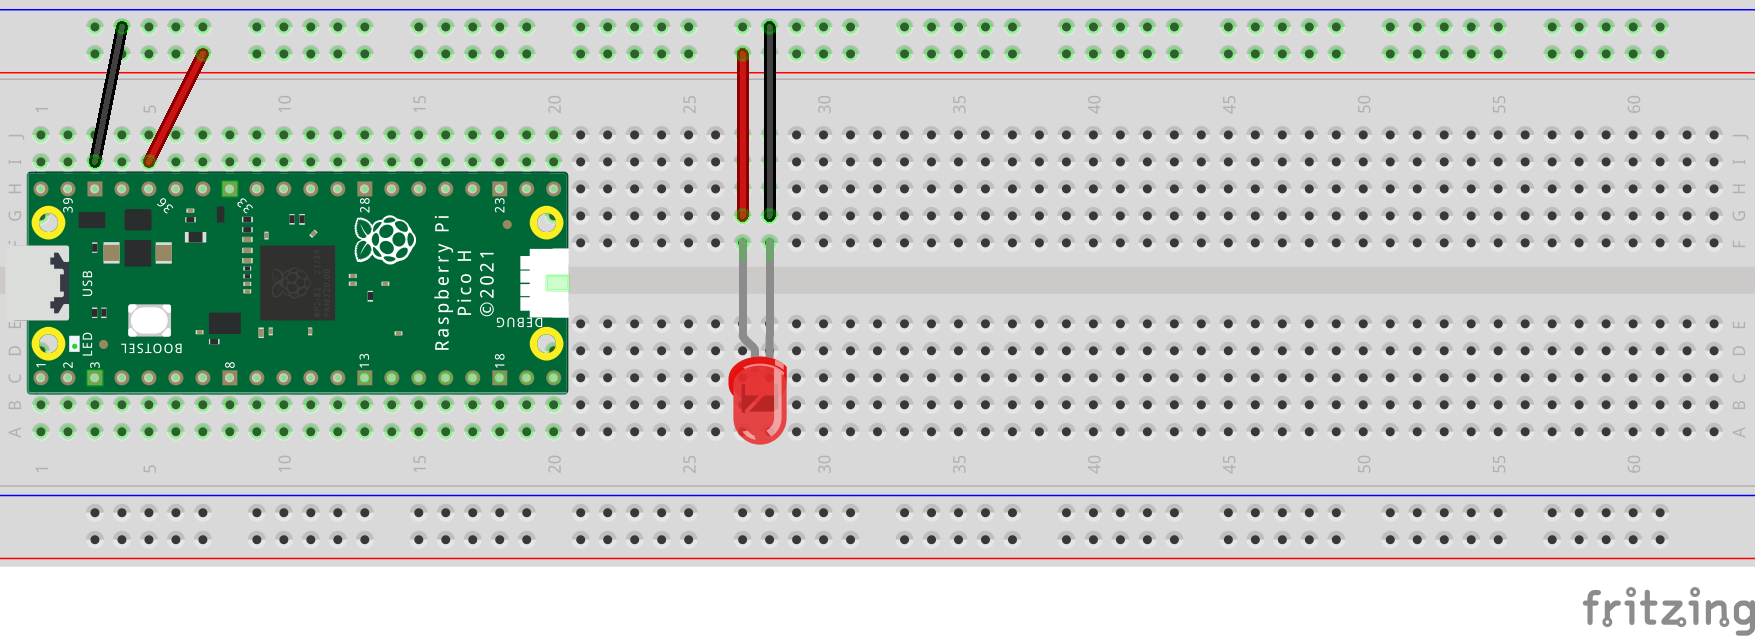
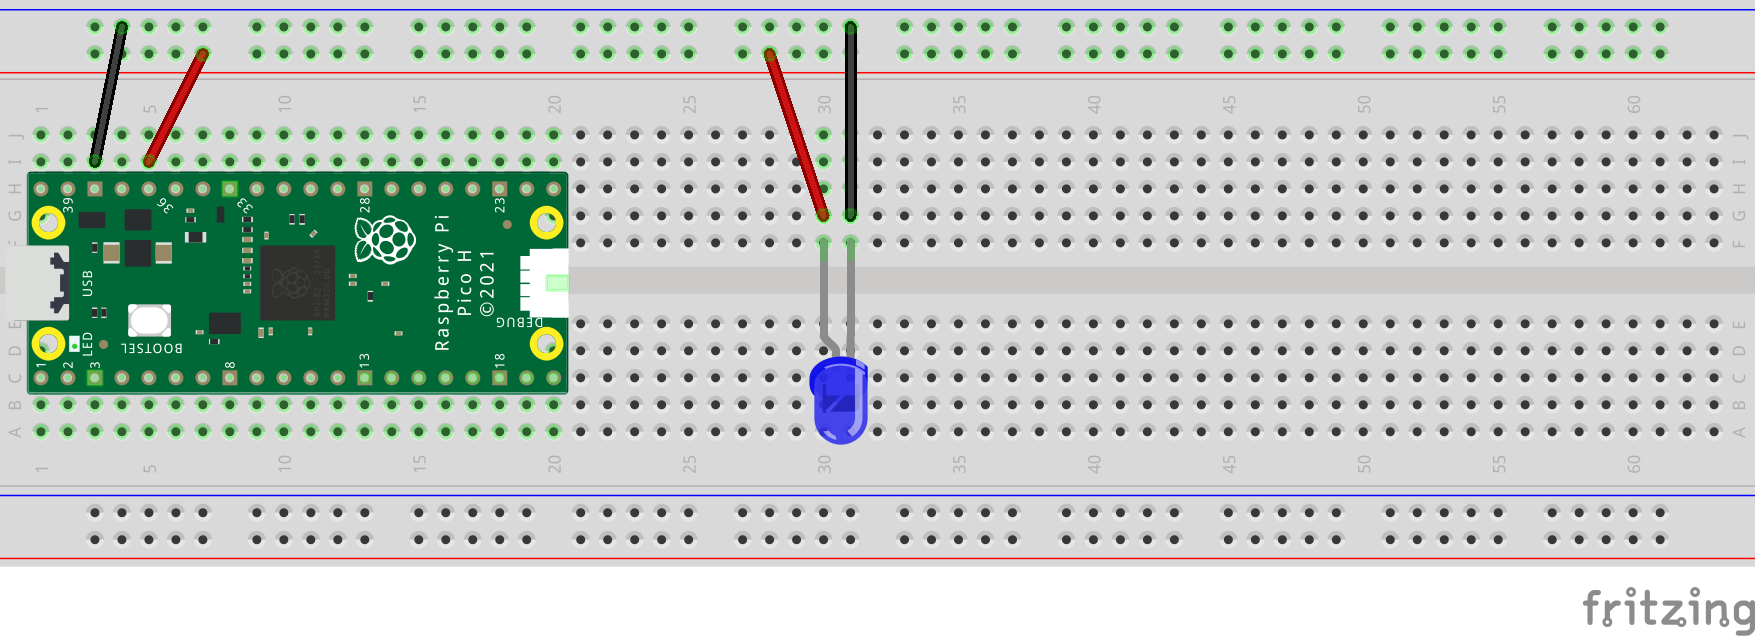
update pics and major update to lab1 description

Changed region(s): [[0.4, 0.0299, 0.4923, 0.717]]

diff --git a/labs/first_circuit.md b/labs/first_circuit.md
@@ -13,7 +13,6 @@ An important part of a working circuit is to make sure the circuit is complete o
 
 The first circuit is to simply power an LED.  A LED is a Light Emitting Diode.  A Diode only allows electricity to flow in one direction.  So, there is a positive and negative side to the LED.  Typically the longer leg of the LED is the positive side.
 
-NOTE: Technically the color of wires don't matter (internally they are the same), but the color does make it easier to know the purpose.  Usually, red wires indicate positive(+) and black wires indicate ground/negative(-).  On the breadboard, the blue line represents the ground/negative power strip and the red/pink line indicates the positive side.
 
 So, we will simply hook our power source to our bread board and then connect the power to the LED in the appropriate way.  See the Diagram below.
 
@@ -23,6 +22,34 @@ We wil be connecting the 3.3Volts out pin from the Pico to the + power rail of t
 
 ##### LED Specification Table
 ![LED Specs](/images/LED_SPECS.PNG)
+
+
+## What to do:
+
+We will now connect the power rails of the breadboard to the Raspberry Pi Pico.  
+
+##### Orientation
+
+It will be easiest if you orient your breadboard as seen below in the wiring diagram.  The USB connection should be to the left and on the left edge of the breadboard you should see letters A through J going from the bottom up.  Across the breadboard left to right you should see numbers indicating the columns of pins starting at 1 and then counting by 5's across the board.
+
+##### Ground (negative)
+
+As mentioned above we a completed circuit needs to go from a positive power source to a negative or ground terminal.  So, we are going to use the Pico's power out (positive) and it's ground to be our power source.  We will start by connecting one of the ground pins on the Pico to the top ground(-) rail of the breadboard.  To do this run a black wire from Pin 3 in Row I or J to the negative rail(ground) on the bread board.  
+
+##### Positive(positive)
+Now to connect the positive side of the power rail, run a red wire from Pin 5 Row I or J to the top positive(red) rail.  Pin 5 on the Pico here is a 3.3Volt output pin.  So, if the Pico is powered up it will be producing 3.3Volts of power.
+
+NOTE: Technically the color of wires don't matter (internally they are the same), but the color does make it easier to know the purpose.  Usually, red wires indicate positive(+) and black wires indicate ground/negative(-).  On the breadboard, the blue line represents the ground/negative power strip and the red/pink line indicates the positive side.
+
+##### LED
+
+Now take your BLUE LED and connect it to the breadboard plugging the slightly longer leg into Pin 30 and the shorter leg into Pin 31 (preferably in Row F)
+
+Now run a red wire from Pin 30 (any Row G-J) to the positive power rail at the top.  Now connect the shorter leg of the LED to ground, by running a black wire from Pin 31 (any Row G-J) to the top Ground(negative) rail.
+
+Once everything is wired, if you plug in your Pico via the USB cable, you should see the LED light up.
+
+When you have light, rejoice! You've just made the world a little brighter literally! :)
 
 ## Wiring Diagram
 

diff --git a/labs/resistor_intro.md b/labs/resistor_intro.md
@@ -1,6 +1,15 @@
 # Resistors
 
-
+As we saw in the last lab LED's (like most electronics) have voltage ranges in which they are designed to run.  We are currently running off 3.3Volts, but if we look again at the specifciations for the LEDs, we will see we are actually running a little over the specified voltage range of 3.0 to 3.2V.  
 
 
 [![LED Specs](/images/LED_SPECS.PNG)
+
+Since we are barely over spec we most likely won't have an issue, but it would be safer for the lifespan of the LED to run at a lower voltage.  To do this, we will add a resistor into our circuit.  A resistor simply resists the flow of electricity and will drop our voltage to a safer level.  
+
+
+## What to do
+
+Replace the 
+
+![Resistor Circuit](/images/2_Circuit_bb.png)
